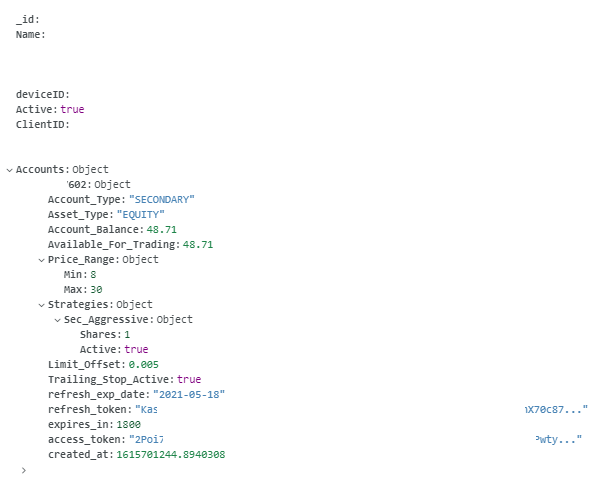
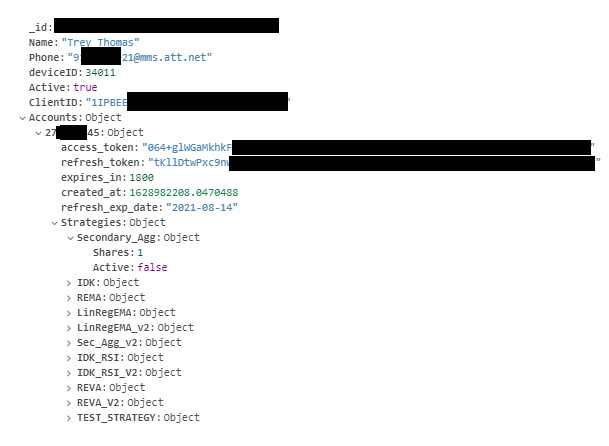
Updated README to include new images and to elaborate on the new changes to the code altogether.

Changed region(s): [[0.0, 0.0291, 0.9984, 0.9619], [0.8424, 0.787, 0.936, 0.8453], [0.8736, 0.8744, 0.936, 0.9036]]

diff --git a/main.py b/main.py
@@ -211,4 +211,4 @@ if __name__ == "__main__":
 
             main.run()
             
-            time.sleep(5)
+            time.sleep(selectSleep())

diff --git a/README.md b/README.md
@@ -110,9 +110,7 @@
 
 ![Live Trader Database](assets/img/Live_Trader_Collections.png)
 
-- Most of the Live_Trader collections are used to collect long term data for use on my front end web app I have developed, which is not public at this time.
-
-- The most crucial collections are:
+- The collections are:
 
   1. users
   2. queue
@@ -132,35 +130,25 @@
 
 ![Sim Trader Database](assets/img/Sim_Trader_Collections.png)
 
+- The image above shows the structure of the sim_trader collection. Only open_positions and closed_positions are needed.
+
 ![Users Collection](assets/img/Users_Collection_Setup.png)
 
 - The image above shows the structure of how a user is setup. In the Accounts object, the key is the account number, and the value is another object with all of that account info and the tokens. All of this will auto populate into the users collection once you create your API tokens for TDAmeritrade using this [repo](https://github.com/TreyThomas93/TDA-Token) here.
+
+- *ATTENTION:*  I have grossly reduced the amount of data needed to be stored in these collections. I even reduced the amount of collections overall. I minimalized and cut out the unneccessary parts that only served to represent data within a web app I created. Therefore, the code is simpler and easier to break down. If you want to add more features and such, then you obviously can do so.
 
 ### <a name="gmail"></a> Gmail
 
 - First off, it is best to create an additional and seperate Gmail account and not your personal account.
 
 - Make sure that you are in the account that will be used to receive alerts from Thinkorswim.
-
-- You will need to create and turn on Google Docs API.
-  https://developers.google.com/docs/api/quickstart/python
-
-- Once created, save the credentials.json file to the creds directory within your gmail package in the program. This will be converted to token.json. After that, you can delete the credentials.json file.
-
-- Run the program to see if you connect to Gmail. You will be prompted to sign in to your account. Make sure you sign in with the account you will be using with Thinkorswim for the program. You may be given an Unverified Apps screen. If so, follow this:
-
-  1. Click the advanced button bottom left.
-  2. Click the Go to Quickstart (unsafe) button.
-  3. Click Allow.
-  4. Click Allow again.
-  5. You then will be redirected to a callback of localhost with the message "The authentication flow has completed. You may close this window."
-  6. Exit out, and you should be connected.
-
-- Once verified, you may have to go to your Google Developers Portal to enable your app.
-
-- Now you should be able to fully connect. If the token.json gets removed, you will not be able to connect.
-
-- Let me know via email if you have issues, and I can help guide you through the process.
+  
+- *Step by Step (Follow this to setup Gmail API):*
+1. https://developers.google.com/gmail/api/quickstart/python
+2. https://developers.google.com/workspace/guides/create-project
+3. https://developers.google.com/workspace/guides/create-credentials
+4. If you get an access_denied when you run the program, try this: https://stackoverflow.com/questions/65184355/error-403-access-denied-from-google-authentication-web-api-despite-google-acc
 
 ### <a name="pushsafer"></a> Pushsafer
 
@@ -194,15 +182,13 @@
 
 #### <a name="scanner-names"></a> Scanner Names
 
-- The format for the scanner name should look like this: STRATEGY, SIDE, AGGREGATION, ASSET TYPE, ACCOUNT TYPE
+- The format for the scanner name should look like this: STRATEGY, SIDE, ACCOUNT ID #1, ACCOUNT ID #2... ECT.
 
 - Example: ![Scanner Name Format](assets/img/Scanner_Name_Format.PNG)
 
-  1. REVA is the strategy name.
+  1. REVA is the strategy name example.
   2. SELL is the side. Can be BUY, SELL, BUY_TO_OPEN, SELL_TO_CLOSE
-  3. 4h is the aggregation. ex. 30m, 1h, 4h, D
-  4. EQUITY is the asset type. Can be EQUITY OR OPTION
-  5. PRIMARY is the account type. Can be PRIMARY, SECONDARY, ect.... (Subject to change to Day, Swing)
+  3. ACCOUNT ID. ADD AS MANY ACCOUNT IDS THAT YOU WANT FROM HERE, FOLLOWED BY COMMAS OF COURSE. ALL OF THESE ACCOUNTS WILL RUN THIS PARTICULAR STRATEGY AND SYMBOL.
 
 - Must be in this exact order and spelled correctly for this to work properly.
 
@@ -283,32 +269,30 @@
 
 ### <a name="code-counter"></a> CODE COUNTER
 
-Total : 15 files, 2290 codes, 440 comments, 1239 blanks, all 3969 lines
+Total : 15 files,  1839 codes, 341 comments, 842 blanks, all 3022 lines
 
-#### Languages
+## Languages
+| language | files | code | comment | blank | total |
+| :--- | ---: | ---: | ---: | ---: | ---: |
+| Python | 12 | 923 | 341 | 709 | 1,973 |
+| JSON | 1 | 696 | 0 | 1 | 697 |
+| Markdown | 1 | 196 | 0 | 128 | 324 |
+| toml | 1 | 24 | 0 | 4 | 28 |
 
-| language | files |  code | comment | blank | total |
-| :------- | ----: | ----: | ------: | ----: | ----: |
-| Python   |    12 | 1,423 |     440 | 1,116 | 2,979 |
-| JSON     |     1 |   650 |       0 |     1 |   651 |
-| Markdown |     1 |   193 |       0 |   118 |   311 |
-| toml     |     1 |    24 |       0 |     4 |    28 |
-
-#### Directories
-
-| path                     | files |  code | comment | blank | total |
-| :----------------------- | ----: | ----: | ------: | ----: | ----: |
-| .                        |    15 | 2,290 |     440 | 1,239 | 3,969 |
-| assets                   |     5 |   111 |      43 |    92 |   246 |
-| assets\exception_handler |     1 |    17 |       1 |    17 |    35 |
-| assets\logger            |     1 |    50 |      36 |    44 |   130 |
-| assets\push_notification |     1 |    37 |       5 |    24 |    66 |
-| gmail                    |     1 |   147 |      36 |   120 |   303 |
-| live_trader              |     1 |   304 |     103 |   218 |   625 |
-| mongo                    |     1 |    33 |       0 |    30 |    63 |
-| sim_trader               |     1 |   232 |      65 |   225 |   522 |
-| tasks                    |     1 |   346 |      69 |   232 |   647 |
-| tdameritrade             |     1 |   144 |      85 |   114 |   343 |
+## Directories
+| path | files | code | comment | blank | total |
+| :--- | ---: | ---: | ---: | ---: | ---: |
+| . | 15 | 1,839 | 341 | 842 | 3,022 |
+| assets | 5 | 116 | 43 | 97 | 256 |
+| assets\exception_handler | 1 | 22 | 1 | 22 | 45 |
+| assets\logger | 1 | 50 | 36 | 44 | 130 |
+| assets\push_notification | 1 | 37 | 5 | 24 | 66 |
+| gmail | 1 | 95 | 31 | 78 | 204 |
+| live_trader | 1 | 243 | 104 | 164 | 511 |
+| mongo | 1 | 36 | 1 | 32 | 69 |
+| sim_trader | 1 | 88 | 9 | 68 | 165 |
+| tasks | 1 | 103 | 31 | 77 | 211 |
+| tdameritrade | 1 | 144 | 85 | 114 | 343 |
 
 ### <a name="final-thoughts-and-support"></a> FINAL THOUGHTS
 
